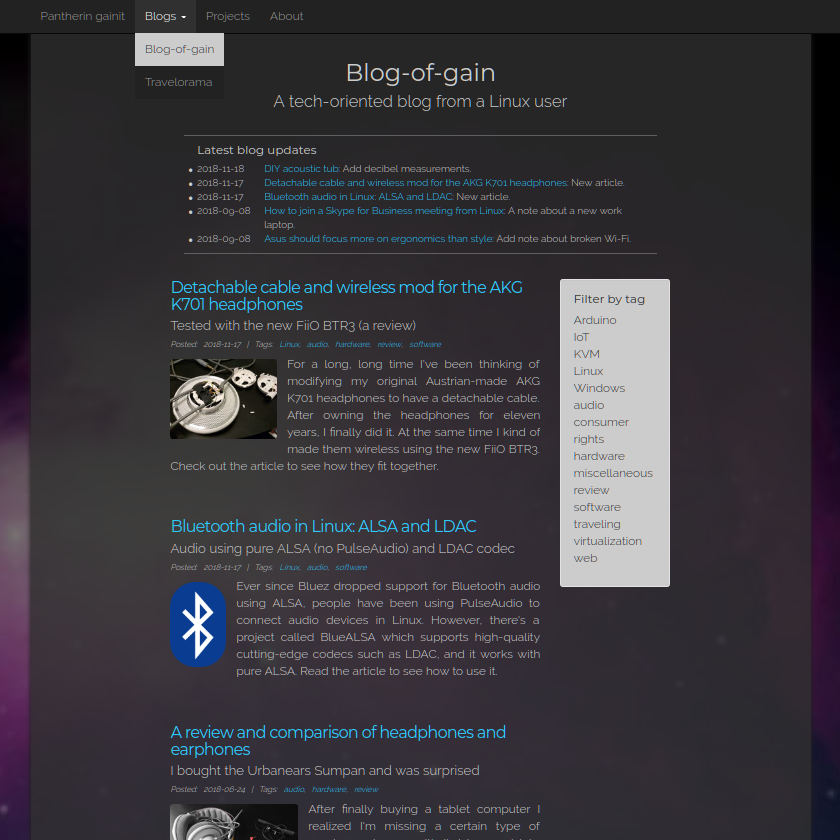
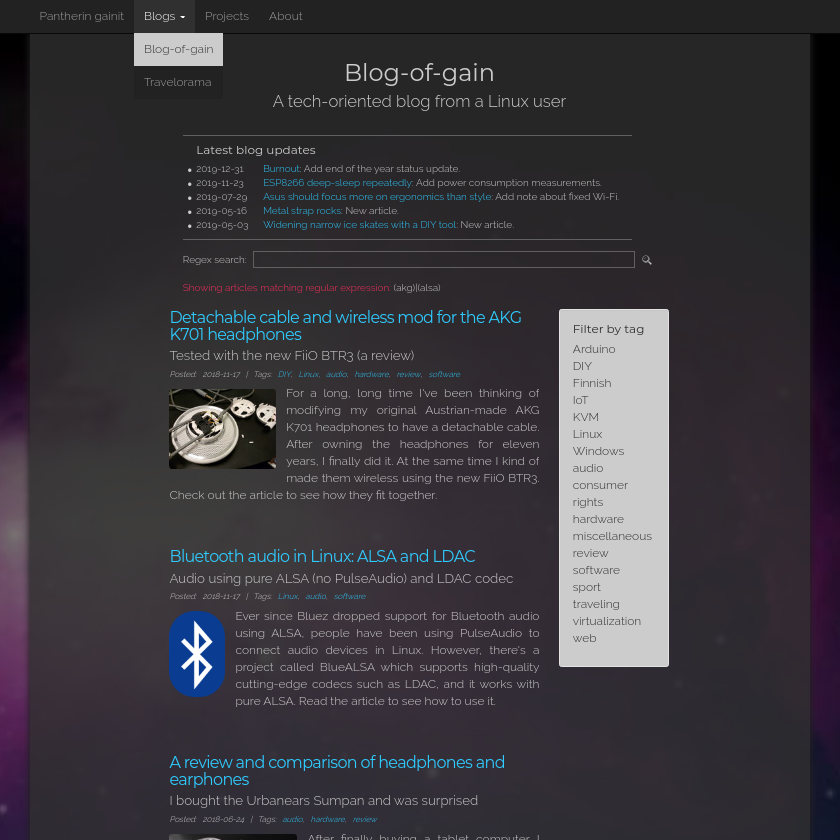
Chore: update documentation.

diff --git a/README.md b/README.md
@@ -11,6 +11,7 @@ GainCMS is a simple PHP blog engine for generic websites and blogs, influenced b
 * Disqus comments
 * Pagination
 * Tagging
+* Searching (with regular expressions)
 * PHP routing
 * Multiple blog support
 * Simple visitor statistics
@@ -27,7 +28,7 @@ Required software:
     * Apache 2.2.16 or newer with rewrite module.
     * nginx 1.10 tested, probably works also with earlier versions.
 * **PHP** 5.6 or newer.
-* For statistics parsing (optional), Python 3 is required.
+* For statistics parsing (optional), Python is required.
 
 To get things running:
 
